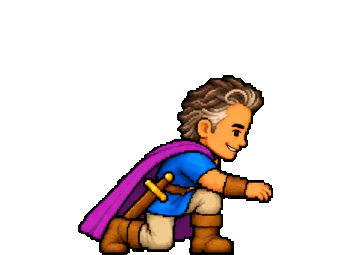
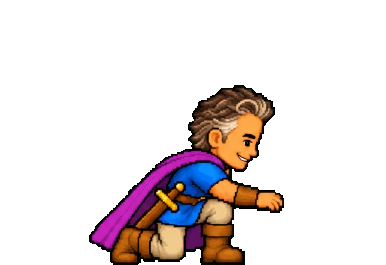
Map: hero sword poses from the final sword sheet

Changed region(s): [[0.2115, 0.2745, 0.7555, 1.0]]

diff --git a/scripts/build_village_hero.py b/scripts/build_village_hero.py
@@ -74,15 +74,15 @@ SHEETS = {
         {
             "draw-0": (88, 16, 232, 292),
             "draw-1": (396, 16, 252, 292),
-            "draw-2": (700, 16, 376, 292),
-            "point": (140, 320, 444, 292),
-            "point-glint": (592, 320, 460, 292),
-            "hold": (120, 660, 252, 304),
-            "raise-0": (432, 568, 280, 396),
-            "raise-1": (756, 536, 296, 428),
-            "plant": (140, 980, 232, 312),
-            "sheathe-0": (416, 984, 232, 300),
-            "sheathe-1": (716, 984, 224, 308),
+            "draw-2": (700, 16, 392, 292),
+            "point": (140, 320, 452, 296),
+            "point-glint": (588, 320, 480, 296),
+            "hold": (120, 664, 260, 316),
+            "raise-0": (436, 572, 276, 396),
+            "raise-1": (756, 524, 300, 444),
+            "plant": (136, 983, 244, 309),
+            "sheathe-0": (408, 984, 244, 300),
+            "sheathe-1": (712, 984, 228, 308),
         },
     ),
 }
